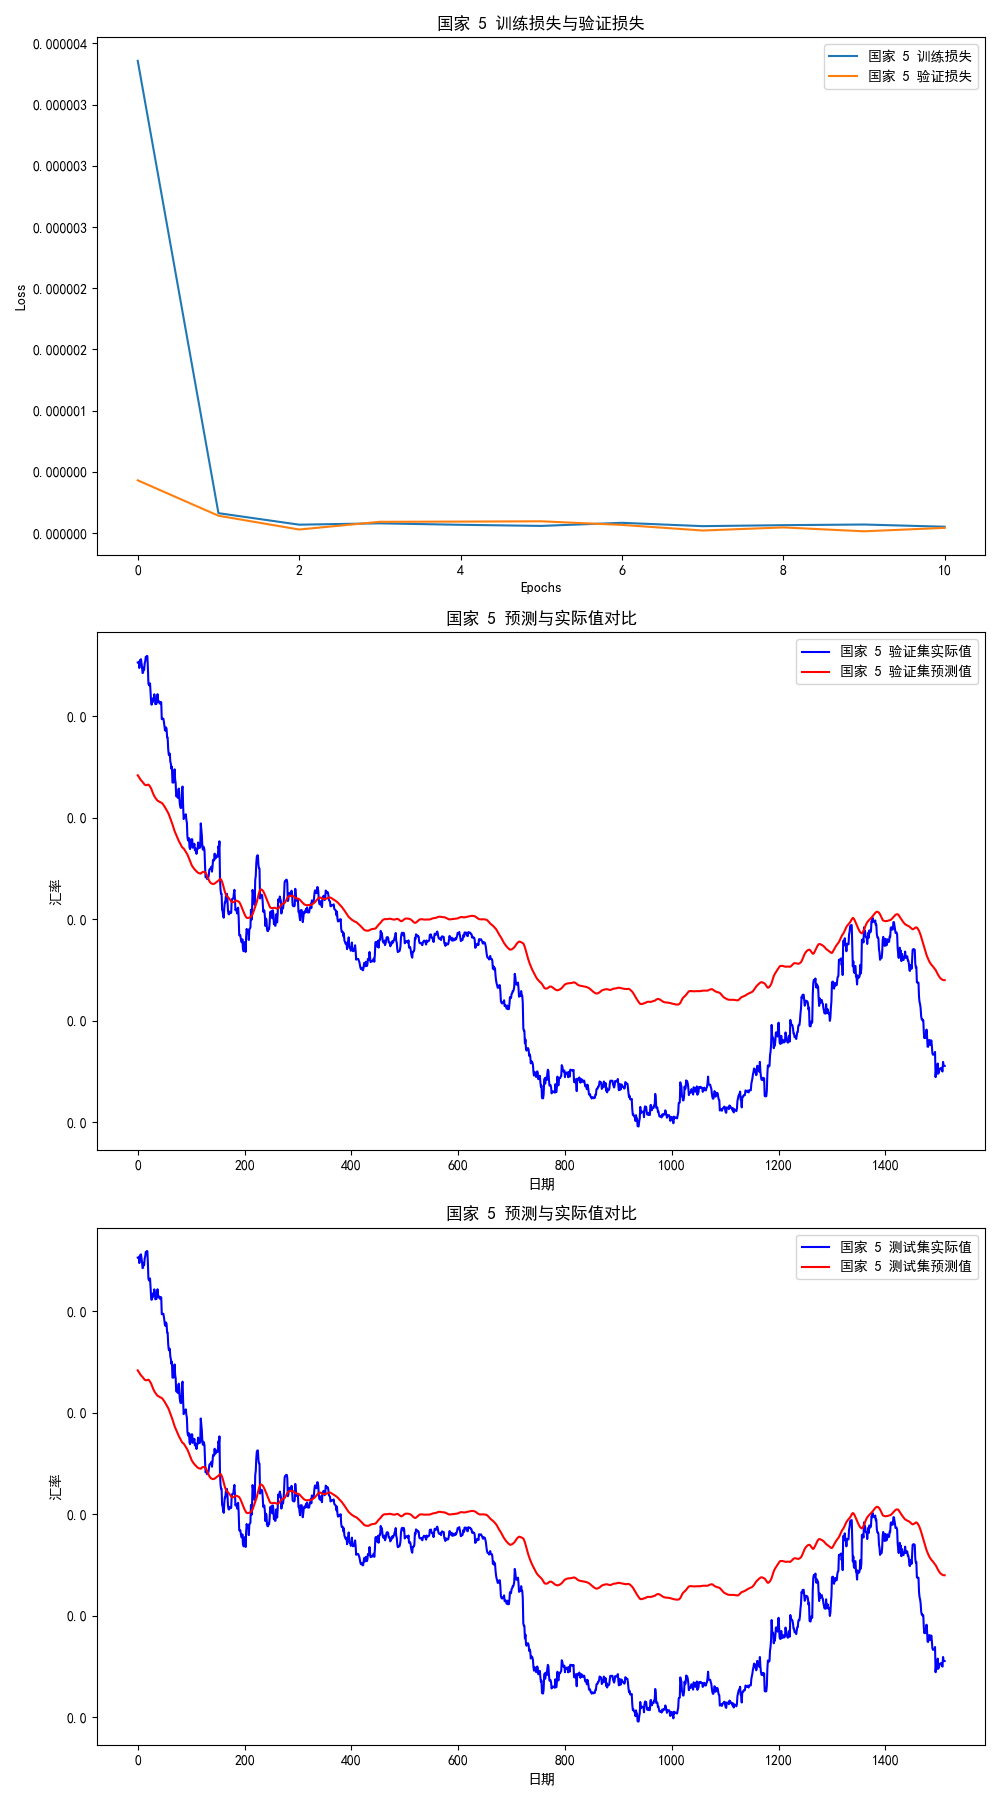
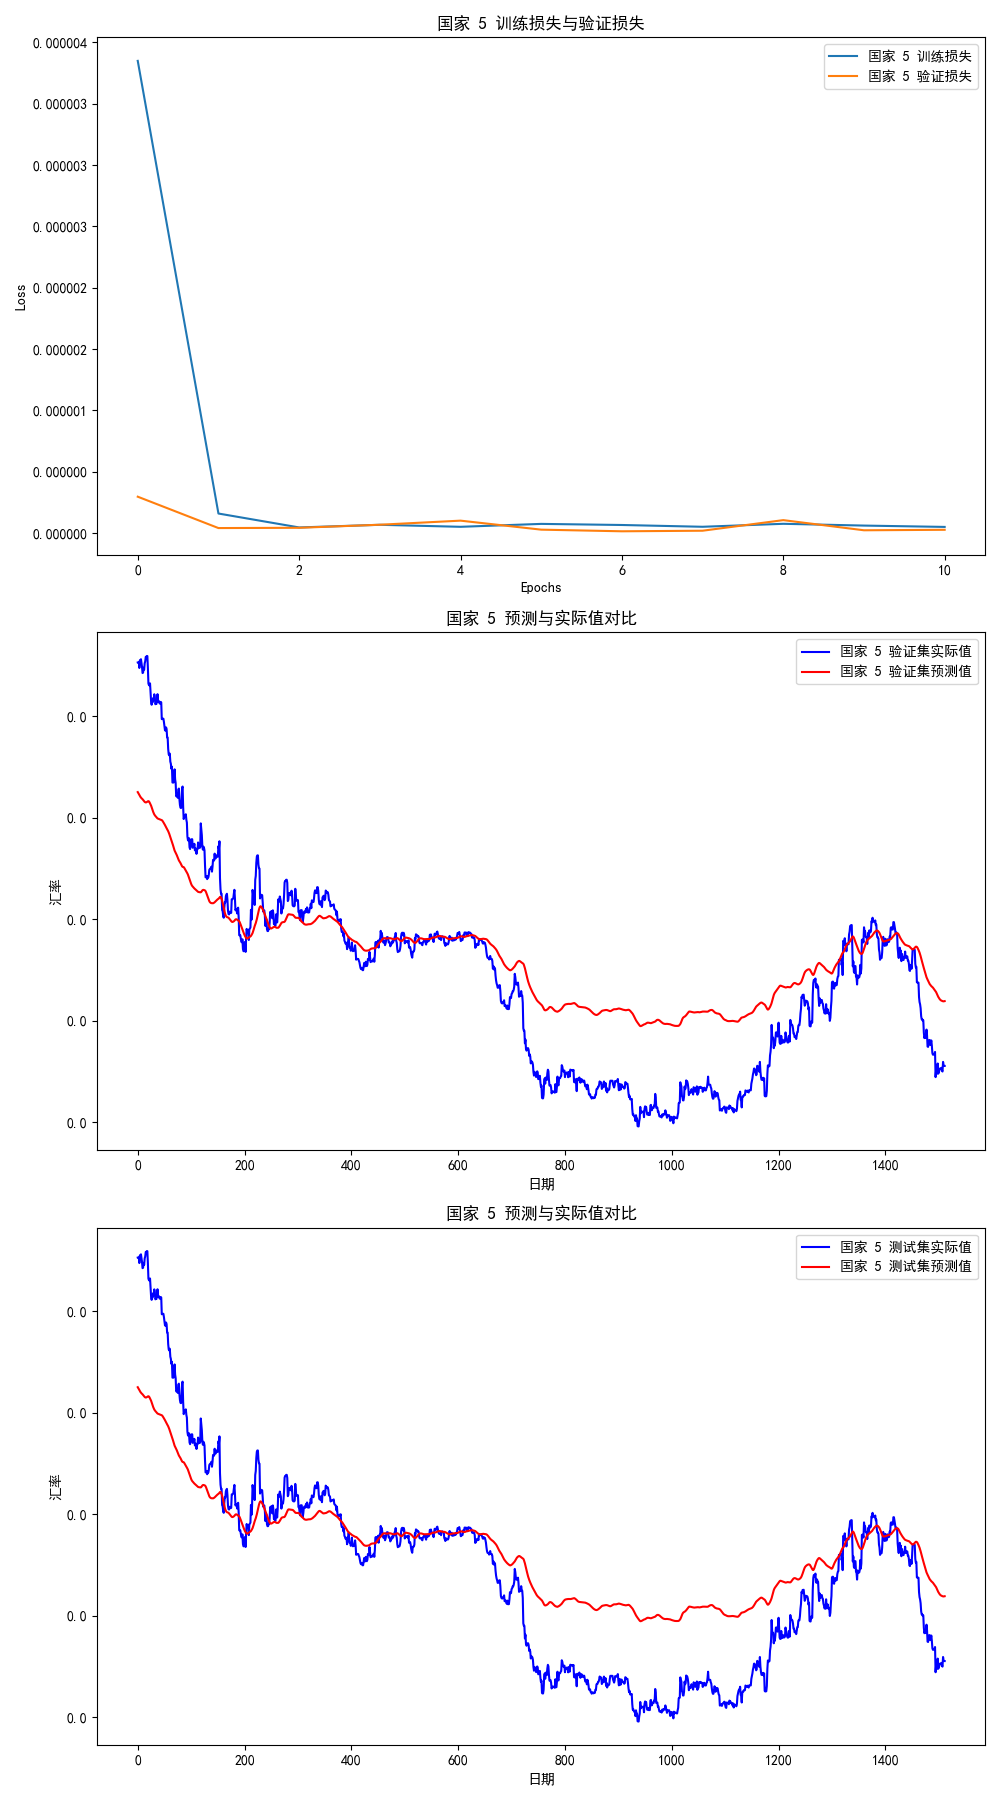
work8代码优化

diff --git a/exam_latest/exam_CMM/work8.py b/exam_latest/exam_CMM/work8.py
@@ -30,15 +30,14 @@
 
 import os
 import pickle
-import numpy as np
-from tensorflow.keras.utils import to_categorical
-from tensorflow.keras.preprocessing.image import ImageDataGenerator
-from tensorflow.keras.models import Sequential
-from tensorflow.keras.layers import Flatten, Dense, Dropout
-from tensorflow.keras.callbacks import EarlyStopping, ModelCheckpoint
+
 from sklearn.metrics import confusion_matrix, roc_curve, auc
-import matplotlib.pyplot as plt
 from sklearn.preprocessing import label_binarize
+from tensorflow.keras.callbacks import EarlyStopping, ModelCheckpoint
+from tensorflow.keras.layers import Flatten, Dense, Dropout
+from tensorflow.keras.models import Sequential
+from tensorflow.keras.preprocessing.image import ImageDataGenerator
+from tensorflow.keras.utils import to_categorical
 
 # CIFAR-10 标签映射字典
 label_dict = {
@@ -157,6 +156,8 @@ def plot_confusion_matrix(cm, num_classes=10, save_path='confusion_matrix.png'):
             plt.text(j, i, format(cm[i, j], 'd'),
                      ha="center", va="center", color="white" if cm[i, j] > thresh else "black")
     plt.tight_layout()
+    # 自动旋转日期标签，避免重叠
+    plt.gcf().autofmt_xdate()
     plt.savefig(save_path)
     plt.show()
 
@@ -204,14 +205,8 @@ def plot_training_history(history, model, x_test, y_test):
     plt.savefig('train.png')
     plt.show()
 
-    # 获取每个 epoch 后的测试集损失和准确率
-    test_losses = []
-    test_accuracies = []
-
-    for epoch in range(len(history.history['loss'])):
-        test_loss, test_acc = model.evaluate(x_test, y_test, verbose=0)
-        test_losses.append(test_loss)
-        test_accuracies.append(test_acc)
+    test_losses = history.history['val_loss']
+    test_accuracies = history.history['val_accuracy']
 
     # 测试 Loss 和 Accuracy 图表（右图）
     fig, axes = plt.subplots(1, 2, figsize=(18, 6))
@@ -276,12 +271,18 @@ def main():
     # 构建VGG16模型
     model = build_vgg16_model(input_shape=(32, 32, 3), num_classes=10)
 
+    # 打印测试集形状
+    print(f"x_test shape: {x_test.shape}, y_test shape: {y_test.shape}")
+
     # 训练模型
     history = train_model(model, datagen, x_train, y_train, x_test, y_test)
 
+    for epoch, (loss, acc) in enumerate(zip(history.history['val_loss'], history.history['val_accuracy'])):
+        print(f"Epoch {epoch + 1}: Test Loss = {loss}, Test Accuracy = {acc}")
+
     # 评估模型
     test_loss, test_acc = evaluate_model(model, x_test, y_test)
-
+    print(f"Test Loss = {test_loss}, Test Accuracy = {test_acc}")
     # 绘制训练过程（Loss 和 Accuracy 图表）
     plot_training_history(history, model, x_test, y_test)
 

diff --git a/exam_latest/exam_TB/work8.py b/exam_latest/exam_TB/work8.py
@@ -43,15 +43,16 @@
 # 优化器调整：可以尝试使用其他优化器（如 Adam 或 RMSprop），以提高模型的收敛速度和准确度。
 import os
 import pickle
-import numpy as np
-from tensorflow.keras.utils import to_categorical
-from tensorflow.keras.preprocessing.image import ImageDataGenerator
-from tensorflow.keras.models import Sequential
-from tensorflow.keras.layers import Flatten, Dense, Dropout
-from tensorflow.keras.callbacks import EarlyStopping, ModelCheckpoint
-from sklearn.metrics import confusion_matrix, roc_curve, auc
+
 import matplotlib.pyplot as plt
+import numpy as np
+from sklearn.metrics import confusion_matrix, roc_curve, auc
 from sklearn.preprocessing import label_binarize
+from tensorflow.keras.callbacks import EarlyStopping, ModelCheckpoint
+from tensorflow.keras.layers import Flatten, Dense, Dropout
+from tensorflow.keras.models import Sequential
+from tensorflow.keras.preprocessing.image import ImageDataGenerator
+from tensorflow.keras.utils import to_categorical
 
 # CIFAR-10 标签映射字典
 label_dict = {
@@ -222,14 +223,8 @@ def plot_training_history(history, model, x_test, y_test):
     plt.savefig('train.png')
     plt.show()
 
-    # 获取每个 epoch 后的测试集损失和准确率
-    test_losses = []
-    test_accuracies = []
-
-    for epoch in range(len(history.history['loss'])):
-        test_loss, test_acc = model.evaluate(x_test, y_test, verbose=0)
-        test_losses.append(test_loss)
-        test_accuracies.append(test_acc)
+    test_losses = history.history['val_loss']
+    test_accuracies = history.history['val_accuracy']
 
     # 测试 Loss 和 Accuracy 图表（右图）
     fig, axes = plt.subplots(1, 2, figsize=(18, 6))
